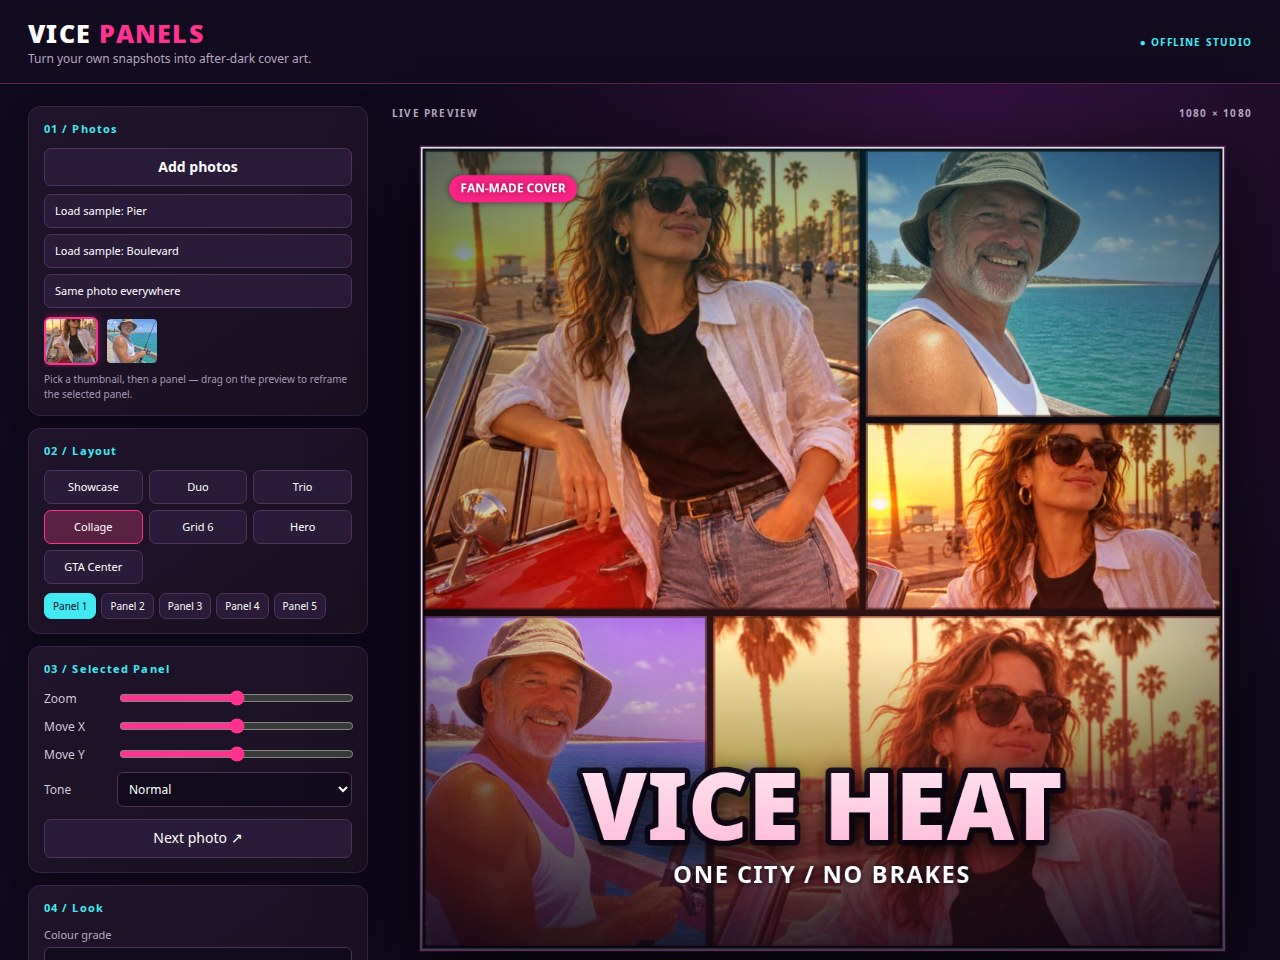
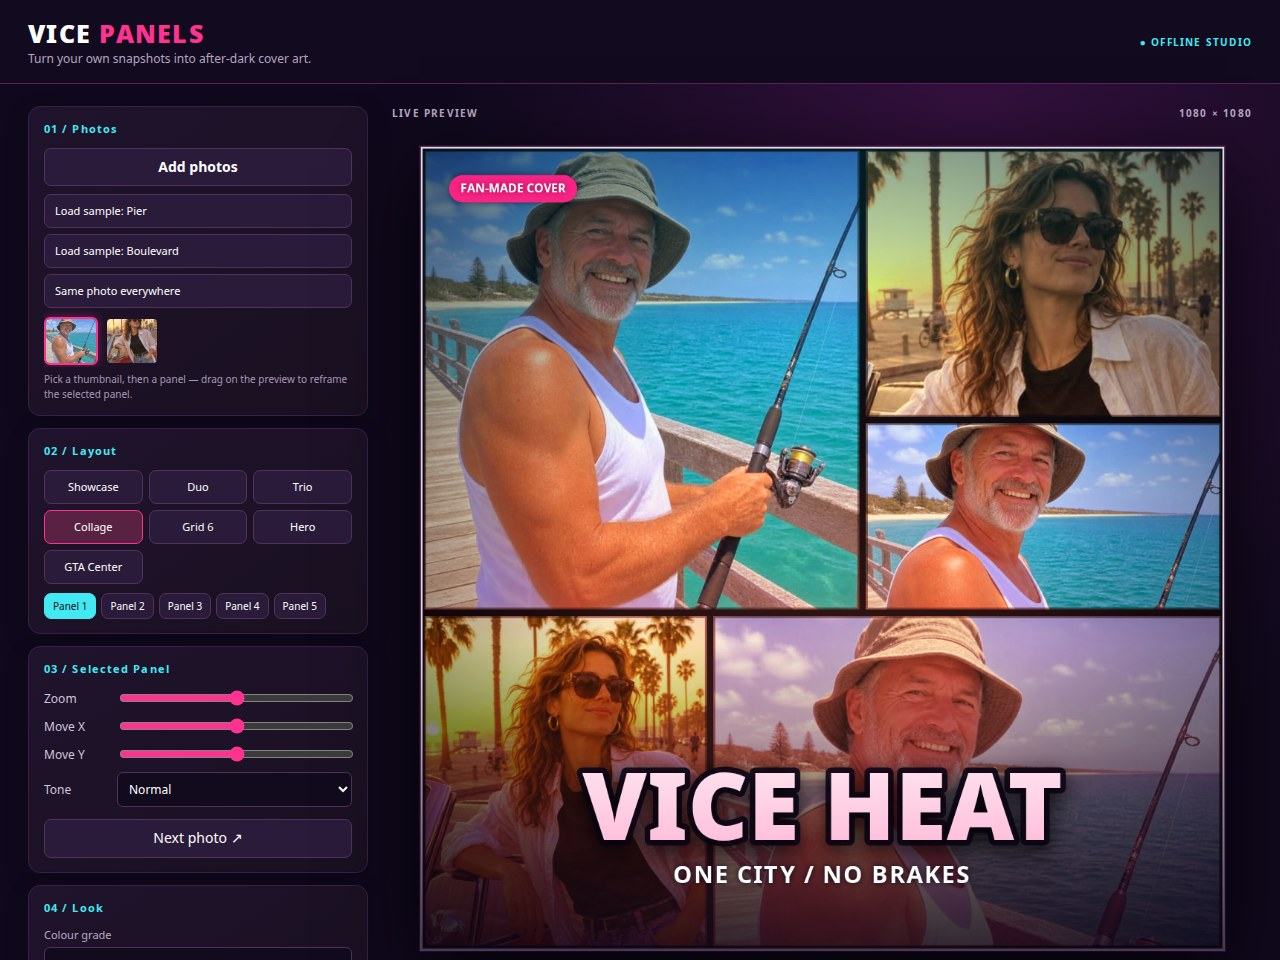
Letter the centre title in lowercase fused outline with hand-cut jitter, fix top-row panel crops, subtitle becomes a bottom pill

diff --git a/app/src/cover.js b/app/src/cover.js
@@ -47,32 +47,55 @@ function comicPanel(img, p, pw, ph, tint) {
   }
   ctx.putImageData(image, 0, 0);
   if (tint) {
-    ctx.globalCompositeOperation = 'soft-light'; ctx.globalAlpha = COMIC.tintSoft; ctx.fillStyle = tint; ctx.fillRect(0, 0, w, h);
-    ctx.globalCompositeOperation = 'overlay'; ctx.globalAlpha = COMIC.tintOverlay; ctx.fillRect(0, 0, w, h);
+    const mix = clamp(p.tintMix ?? 1, 0, 1);
+    ctx.globalCompositeOperation = 'soft-light'; ctx.globalAlpha = COMIC.tintSoft * mix; ctx.fillStyle = tint; ctx.fillRect(0, 0, w, h);
+    ctx.globalCompositeOperation = 'overlay'; ctx.globalAlpha = COMIC.tintOverlay * mix; ctx.fillRect(0, 0, w, h);
     ctx.globalAlpha = 1; ctx.globalCompositeOperation = 'source-over';
   }
   return canvas;
 }
 
 function drawCenterTitle(ctx, W, H, state) {
-  const words = String(state.title || '').toUpperCase().split(/\s+/).filter(Boolean);
+  const words = String(state.title || '').trim().toLowerCase().split(/\s+/).filter(Boolean);
   if (!words.length) return;
   const line2 = words.pop(), line1 = words.join(' '), lines = line1 ? [line1, line2] : [line2];
-  const family = state.titleFont || 'Bowlby One'; let size = Math.round(H * .155);
-  ctx.font = `${size}px ${family}, sans-serif`;
-  while (Math.max(...lines.map(line => ctx.measureText(line).width)) > W * .88 && size > 20) { size -= 3; ctx.font = `${size}px ${family}, sans-serif`; }
-  const lineStep = size * .87, cy = H * .415, firstY = cy - (lines.length - 1) * lineStep / 2;
-  ctx.save(); ctx.textAlign = 'center'; ctx.textBaseline = 'middle'; ctx.lineJoin = 'round'; ctx.lineWidth = size * .18; ctx.strokeStyle = '#060606';
+  const family = state.titleFont || 'Bowlby One';
+  const rand = (i, code, salt) => { const v = Math.sin(i * 127.1 + code * 311.7 + salt * 74.7) * 43758.5453; return v - Math.floor(v); };
+  let size = Math.round(H * .19);
+  const layoutLine = (line) => {
+    ctx.font = `${size}px ${family}, sans-serif`;
+    const spacing = -size * .065;
+    const chars = [...line].map((ch, i) => {
+      const code = ch.charCodeAt(0);
+      return { ch, adv: ctx.measureText(ch).width, rot: (rand(i, code, 1) - .5) * .07, sy: 1.18 + rand(i, code, 2) * .14, sx: .88, dy: (rand(i, code, 3) - .5) * size * .04 };
+    });
+    const width = chars.reduce((s, c) => s + c.adv * c.sx, 0) + spacing * Math.max(0, chars.length - 1);
+    return { chars, spacing, width };
+  };
+  let laid = lines.map(layoutLine);
+  while (Math.max(...laid.map(l => l.width)) > W * .94 && size > 20) { size -= 3; laid = lines.map(layoutLine); }
+  const lineStep = size * .78, cy = H * .415, firstY = cy - (lines.length - 1) * lineStep / 2;
+  ctx.save(); ctx.textAlign = 'center'; ctx.textBaseline = 'middle'; ctx.lineJoin = 'round';
   ctx.shadowColor = 'rgba(0,0,0,.45)'; ctx.shadowBlur = size * .05; ctx.shadowOffsetY = size * .04;
-  ctx.letterSpacing = `${-size * .015}px`;
-  lines.forEach((line, i) => { const y = firstY + i * lineStep; ctx.strokeText(line, W / 2, y); ctx.fillStyle = '#ffffff'; ctx.fillText(line, W / 2, y); });
-  if (state.subtitle) {
-    ctx.font = `${Math.round(H * .026)}px ${family}, sans-serif`; ctx.letterSpacing = `${Math.max(1, W * .004)}px`; ctx.textAlign = 'center'; ctx.textBaseline = 'middle';
-    const y = cy + (lines.length - 1) * lineStep / 2 + size * .74;
-    ctx.lineWidth = Math.max(2, H * .026 * .16); ctx.strokeStyle = '#060606'; ctx.strokeText(String(state.subtitle), W / 2, y);
-    ctx.fillStyle = '#ffffff'; ctx.fillText(String(state.subtitle), W / 2, y);
-  }
+  lines.forEach((line, li) => {
+    const y = firstY + li * lineStep, L = laid[li];
+    let cursor = W / 2 - L.width / 2;
+    const pos = L.chars.map(c => { const cx = cursor + (c.adv * c.sx) / 2; cursor += c.adv * c.sx + L.spacing; return { ...c, cx }; });
+    ctx.lineWidth = size * .20; ctx.strokeStyle = '#060606';
+    for (const p of pos) { ctx.save(); ctx.translate(p.cx, y + p.dy); ctx.rotate(p.rot); ctx.scale(p.sx, p.sy); ctx.strokeText(p.ch, 0, 0); ctx.restore(); }
+    ctx.fillStyle = '#ffffff';
+    for (const p of pos) { ctx.save(); ctx.translate(p.cx, y + p.dy); ctx.rotate(p.rot); ctx.scale(p.sx, p.sy); ctx.fillText(p.ch, 0, 0); ctx.restore(); }
+  });
   ctx.restore();
+  if (state.subtitle) {
+    const sub = String(state.subtitle).toLowerCase(), ss = Math.round(H * .027);
+    ctx.save(); ctx.font = `${ss}px ${family}, sans-serif`; ctx.letterSpacing = `${Math.max(1, W * .003)}px`;
+    const tw = ctx.measureText(sub).width, padX = ss * .85, pillH = ss * 1.75, pw = tw + padX * 2, px = W / 2 - pw / 2, py = H * .945 - pillH / 2;
+    ctx.shadowColor = 'rgba(0,0,0,.55)'; ctx.shadowBlur = ss * .35; ctx.fillStyle = 'rgba(6,6,6,.93)';
+    ctx.beginPath(); ctx.roundRect(px, py, pw, pillH, pillH / 2); ctx.fill();
+    ctx.shadowColor = 'transparent'; ctx.fillStyle = '#ffffff'; ctx.textAlign = 'center'; ctx.textBaseline = 'middle';
+    ctx.fillText(sub, W / 2, H * .945 + ss * .05); ctx.restore();
+  }
 }
 
 function grade(ctx, w, h, name) {
@@ -106,7 +129,7 @@ export function drawCover(canvas, state) {
     const x0 = x * W + gap / 2, y0 = y * H + gap / 2, pw = rw * W - gap, ph = rh * H - gap;
     ctx.save(); ctx.beginPath(); ctx.rect(x0, y0, pw, ph); ctx.clip();
     if (img && state.grade === 'comic') {
-      ctx.drawImage(comicPanel(img, p, pw, ph, COMIC_TINTS[i % COMIC_TINTS.length]), x0, y0, pw, ph);
+      ctx.drawImage(comicPanel(img, p, pw, ph, (p.tint || COMIC_TINTS[i % COMIC_TINTS.length])), x0, y0, pw, ph);
     } else if (img) {
       const scale = Math.max(pw / img.width, ph / img.height) * clamp(p.zoom || 1, 1, 3);
       const dw = img.width * scale, dh = img.height * scale;

diff --git a/app/src/panels.js b/app/src/panels.js
@@ -21,7 +21,7 @@ export const PANEL_CROPS = {
   collage: [{ zoom: 1.02, ox: 0, oy: -.02, tone: 'normal' }, { zoom: 1.3, ox: .1, oy: -.4, tone: 'warm' }, { zoom: 1.15, ox: 0, oy: -.3, tone: 'normal' }, { zoom: 1.2, ox: -.05, oy: -.4, tone: 'cool' }, { zoom: 1.05, ox: 0, oy: -.4, tone: 'warm' }],
   grid6: [{ zoom: 1.18, ox: -.1, oy: -.14, tone: 'normal' }, { zoom: 1.08, ox: .05, oy: -.03, tone: 'warm' }, { zoom: 1.55, ox: .1, oy: -.3, tone: 'normal' }, { zoom: 1.26, ox: .1, oy: .02, tone: 'warm' }, { zoom: 1.03, ox: 0, oy: -.04, tone: 'normal' }, { zoom: 1.2, ox: -.12, oy: 0, tone: 'cool' }],
   hero: [{ zoom: 1, ox: 0, oy: -.3, tone: 'normal' }, { zoom: 1, ox: -.45, oy: 0, tone: 'normal' }, { zoom: 1.6, ox: .17, oy: -.33, tone: 'warm' }, { zoom: 1.3, ox: -.12, oy: -.35, tone: 'normal' }],
-  gta: [{ zoom: 1.55, ox: .18, oy: -.26, tone: 'normal' }, { zoom: 1.7, ox: -.19, oy: -.36, tone: 'normal' }, { zoom: 1.15, ox: .35, oy: -.43, tone: 'warm' }, { zoom: 1.2, ox: -.45, oy: -.5, tone: 'normal' }, { zoom: 1.1, ox: .5, oy: -.5, tone: 'warm' }, { zoom: 1.25, ox: -.17, oy: -.42, tone: 'normal' }, { zoom: 1.35, ox: .24, oy: -.39, tone: 'normal' }]
+  gta: [{ zoom: 1.22, ox: .2, oy: -.48, tone: 'normal' }, { zoom: 1.7, ox: -.19, oy: -.36, tone: 'normal', tint: '#17b6cf', tintMix: .65 }, { zoom: 1.15, ox: .35, oy: -.43, tone: 'warm' }, { zoom: 1.2, ox: -.45, oy: -.5, tone: 'normal' }, { zoom: 1.1, ox: .5, oy: -.5, tone: 'warm' }, { zoom: 1.25, ox: -.17, oy: -.42, tone: 'normal' }, { zoom: 1.35, ox: .24, oy: -.39, tone: 'normal' }]
 };
 
 export function panelCrop(layout, i) {
